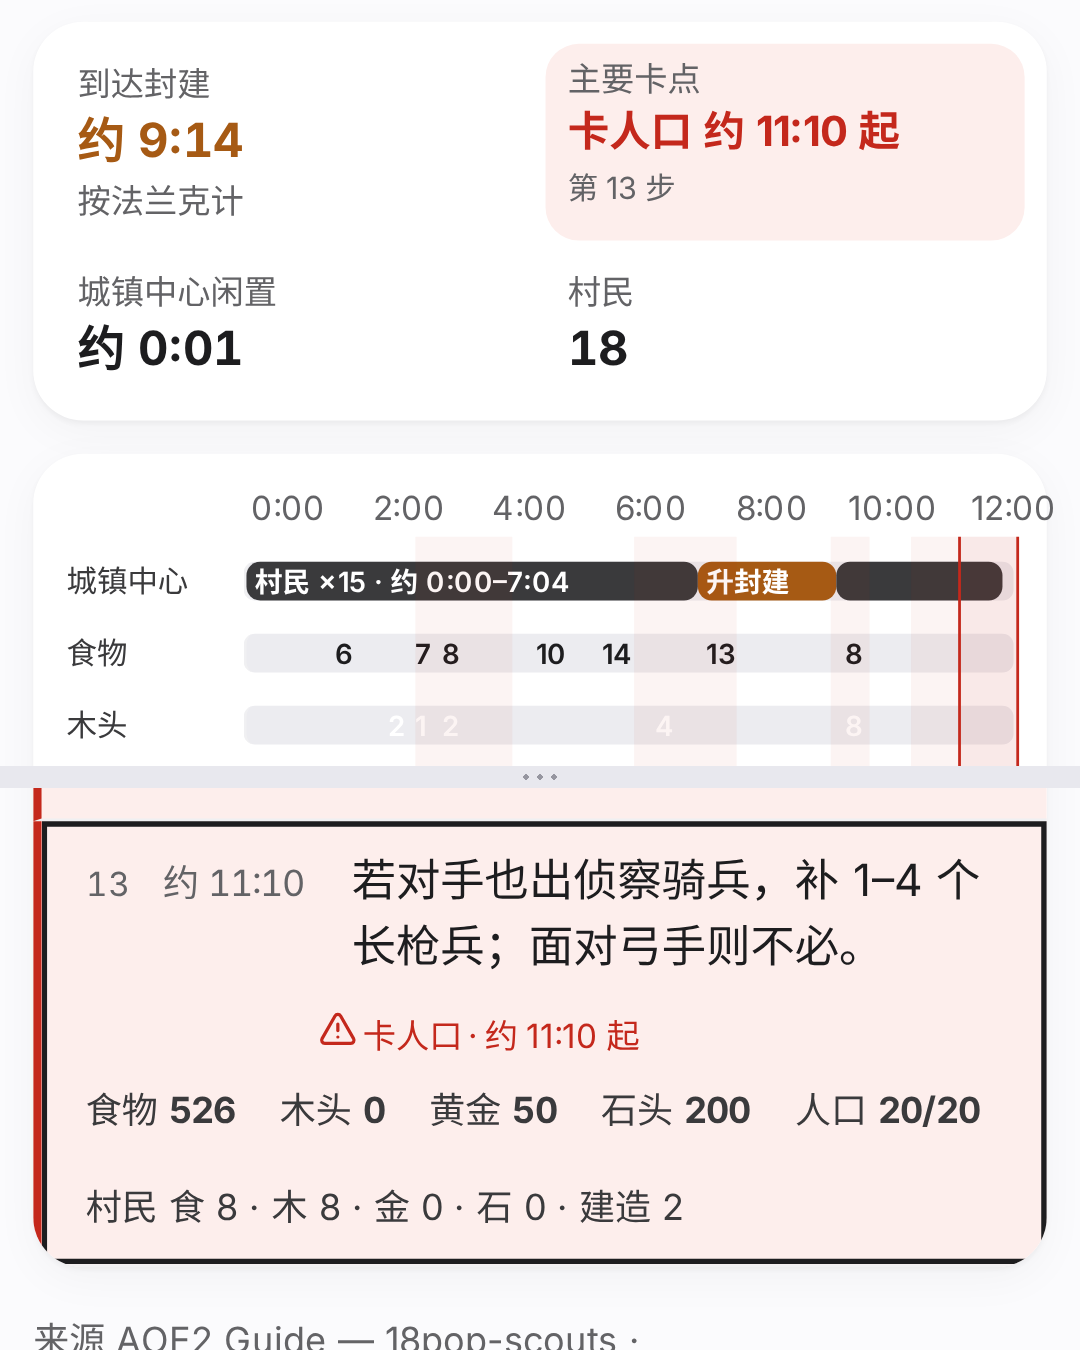
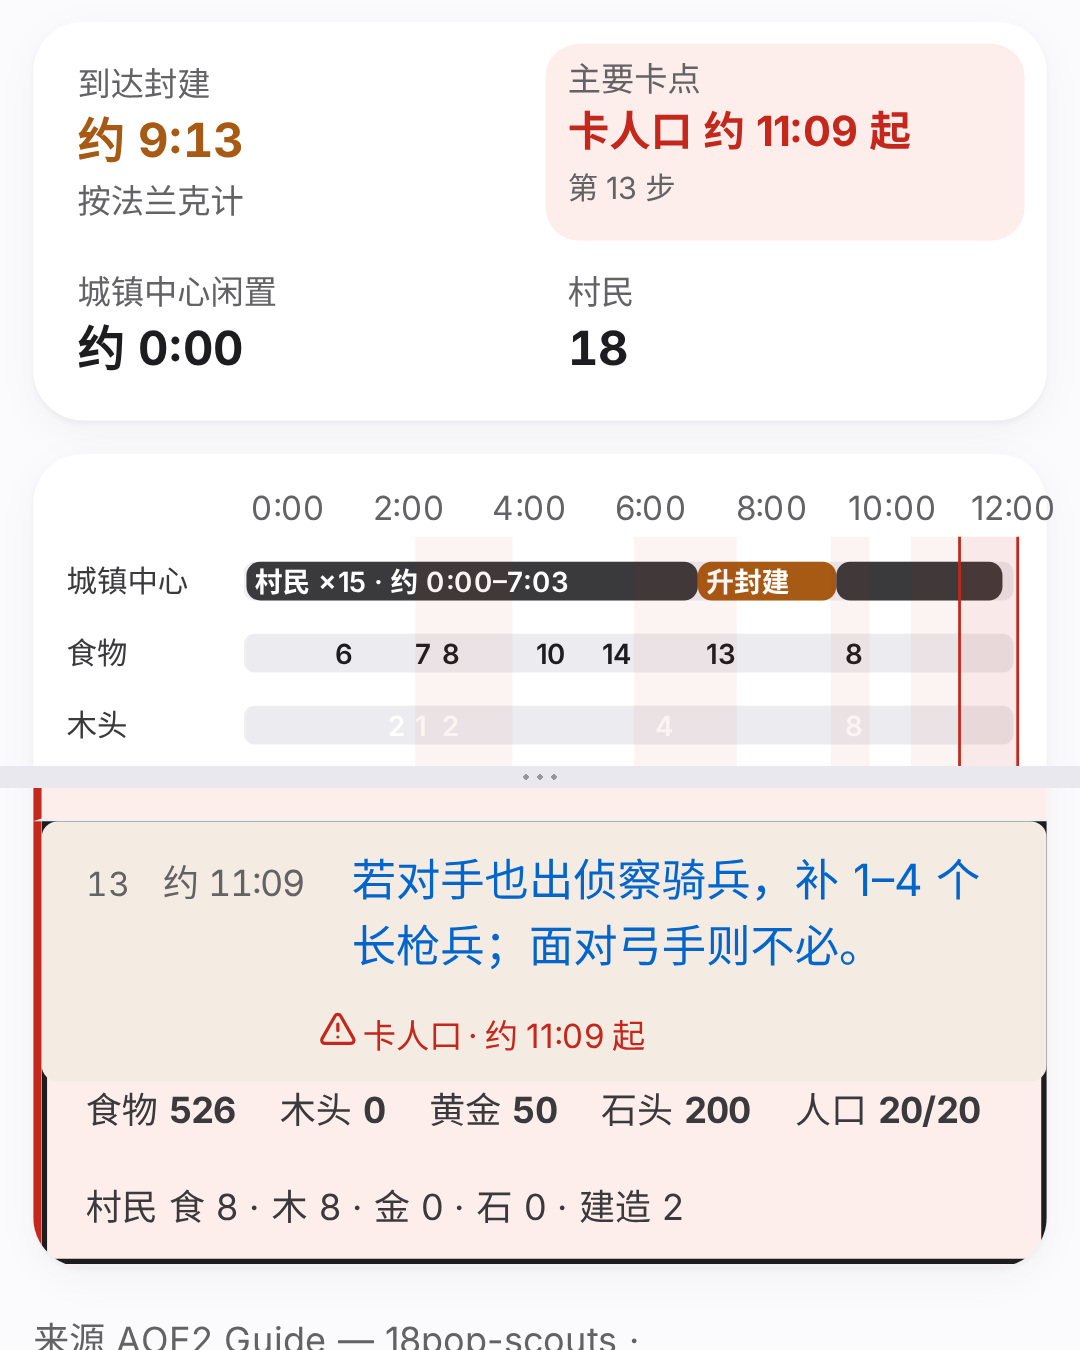
design(#3): M3 封面按线上构建 d56305f 重截（9:13 / 卡人口 约 11:09 起 第 13 步）

diff --git a/docs/design/mockups/m3-cover/README.md b/docs/design/mockups/m3-cover/README.md
@@ -1,10 +1,10 @@
 # M3 上线公告封面（定稿）
 
-截自线上站点，页脚显示 **构建 0a0995d**（2026-10-11 19:24 左右，UTC+8），数字都没改过。
+截自线上站点，页脚显示 **构建 ff7999e**（#53 起时间统一向下取整；2026-10-11 20:11 左右，UTC+8），数字都没改过。
 
 - URL：`https://linhongcun.github.io/aoe2-analyzer/#/builds?bo=scouts-18&civ=Franks&house=0&step=13`
   - `step` 从 1 起（#48 / #51 以后），和页面显示的步号一致；13 是摘要「主要卡点」里写的步号，脚本运行时读取，并核对展开的就是第 13 步
-- 线上数字：到达封建 约 9:14（按法兰克计），主要卡点「卡人口 约 11:10 起」第 13 步，城镇中心闲置 约 0:01，村民 18；第 13 步：食物 526、木头 0、黄金 50、石头 200、人口 20/20。页面上没有「计算修正中」
+- 线上数字：到达封建 约 9:13（按法兰克计），主要卡点「卡人口 约 11:09 起」第 13 步，城镇中心闲置 约 0:00；和 Kent 在 #3 的核对一致，村民 18；第 13 步：食物 526、木头 0、黄金 50、石头 200、人口 20/20。页面上没有「计算修正中」
 - 公告配图说明：「示例：关闭自动建房」
 
 | 文件 | 尺寸 | 视口 / DPR | 方式 |
@@ -14,6 +14,6 @@
 
 摘要和第 13 步在页面上相距约 1262（电脑）/ 1748（手机）CSS px，超出画面高度，一张连续截图放不下，所以两个尺寸都是两段真实截图拼接，中间放一条带三个点的细分隔条。`-raw-a/-raw-b` 是未缩放的原始截图，`els.json` 是截图时记录的坐标和页面文字。
 
-截图前把鼠标移到左下角并 blur，没有步骤行处于 hover/focus 状态（琥珀色 hover 的 bug 还没修）。第 13 步的深色描边是 `step=13` 选中后的展开样式。
+截图前把鼠标移到左下角并 blur，没有步骤行处于 hover/focus 状态（琥珀色 hover 的 bug 还没修）。第 13 步的浅色底和深色描边是 `step=13` 选中后的样式（#53 的选中对比度样式），不是 hover。
 
 复现：`node capture.mjs`（默认用线上地址），然后 `python3 overlay.py`，输出到 `out/`。
